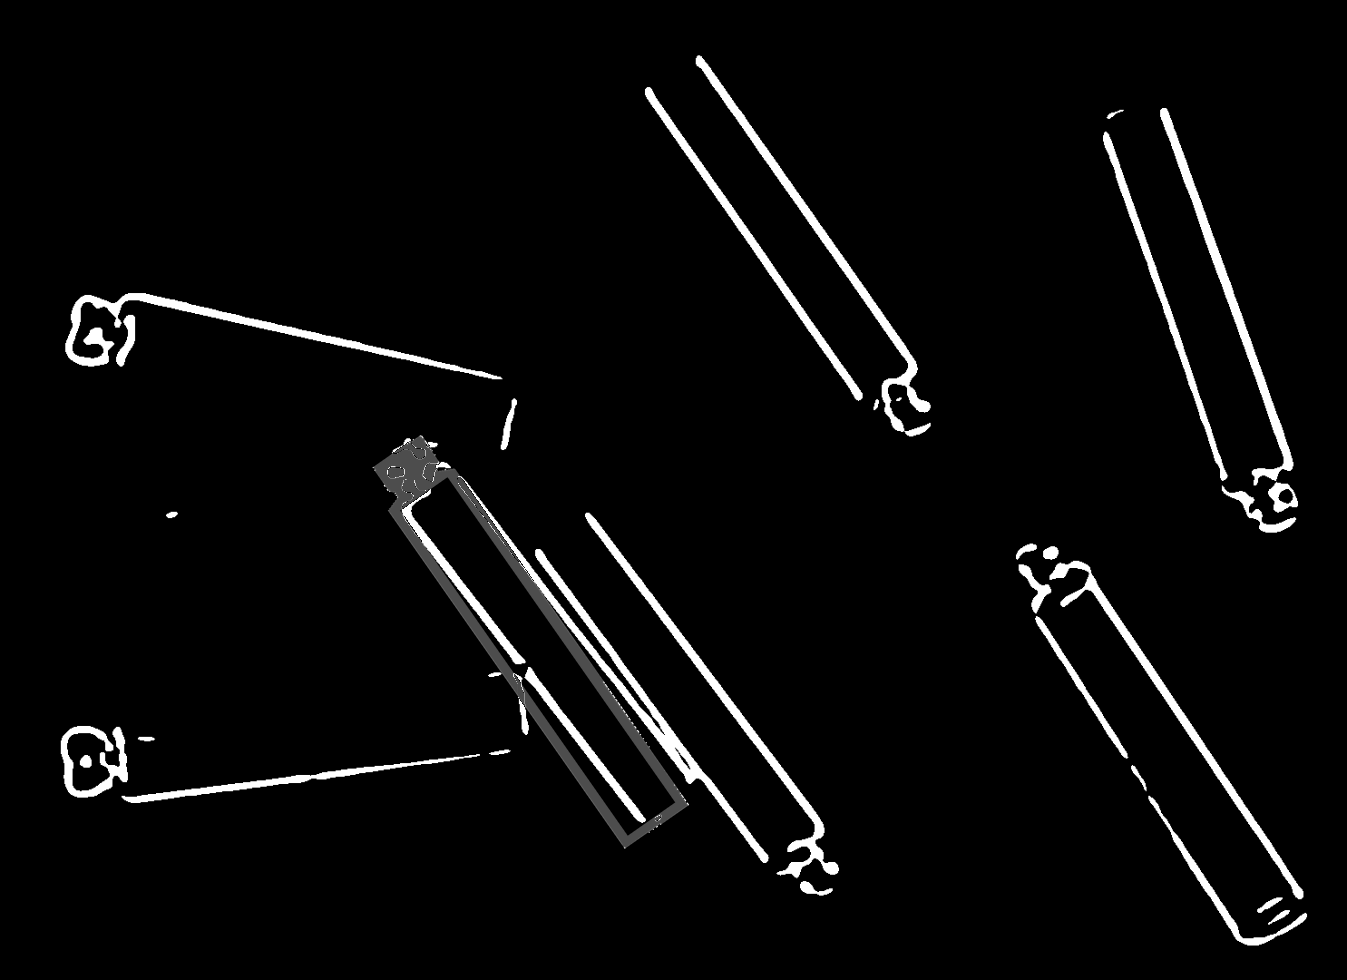
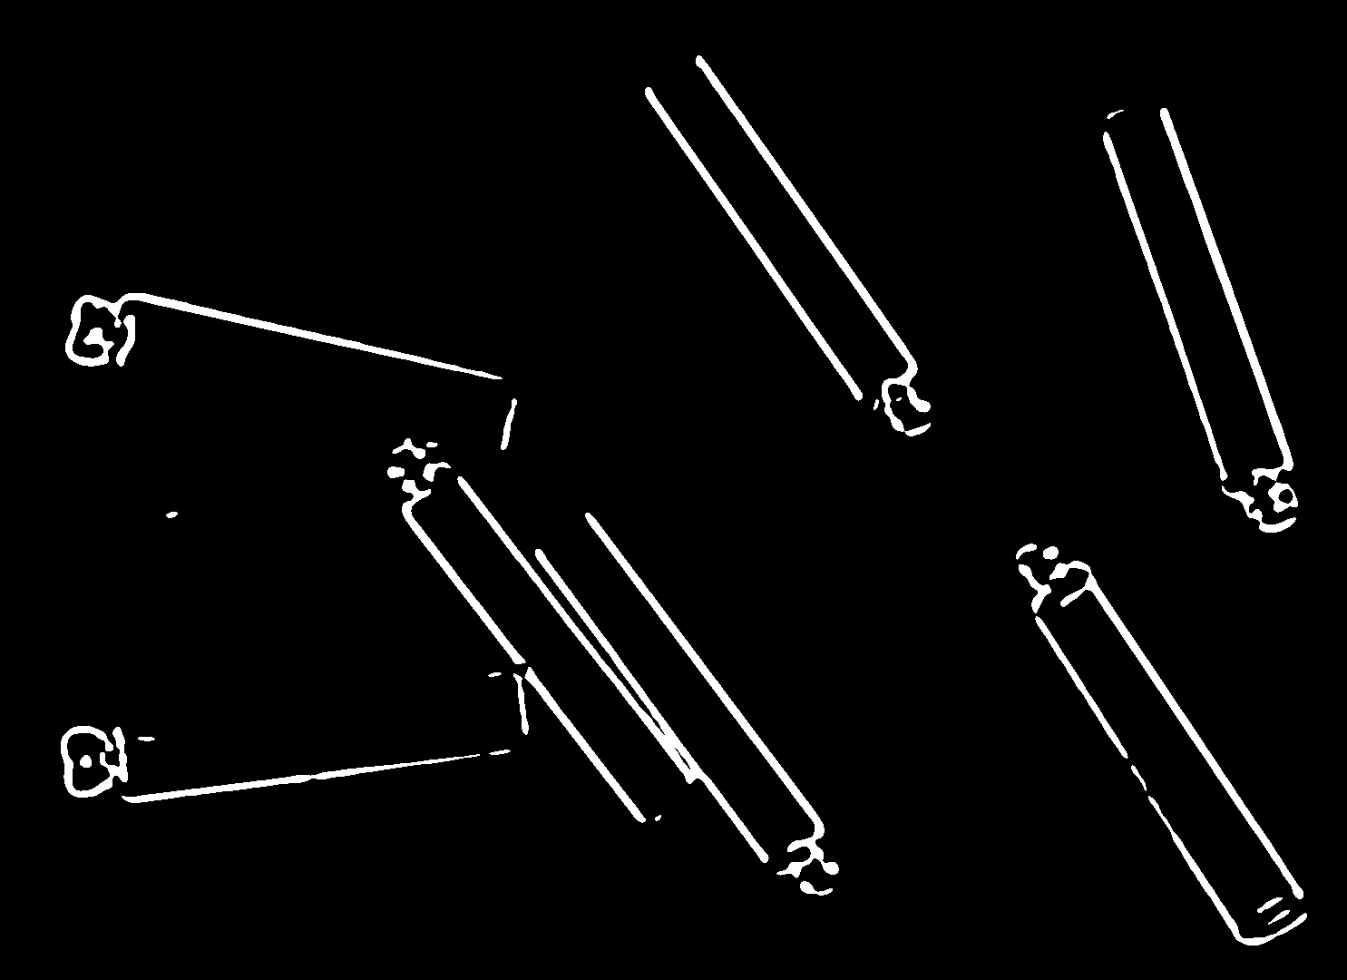
Added part of the hough information. Still needs fixing

diff --git a/GlassSegmentV1/GlassSegmentV1.py b/GlassSegmentV1/GlassSegmentV1.py
@@ -29,7 +29,7 @@ def rotate_image(image, angle):
     result = cv2.warpAffine(image, rot_mat, image.shape[1::-1], flags=cv2.INTER_CUBIC)
     return result
 
-# ! A (likely) ineffective way to convert image to binary
+# ! An (likely) ineffective way to convert image to binary
 def cvt_to_bin(image):
     image_bin = np.zeros(image.shape,dtype=bool)
     for y in range(image.shape[0]):
@@ -38,23 +38,45 @@ def cvt_to_bin(image):
                 image_bin[y,x] = True
     return image_bin
 
-def templatematch(img, template, angle_inc = 5, h_steps = 25, w_steps = 40):
-    template_rot = template
-    matches = np.empty([int(360/angle_inc), img.shape[0] - template_rot.shape[1] + 1, img.shape[1] - template_rot.shape[1] + 1])
-    #rotations = np.empty([])
+def templatematch(img, template, houghLocation, angle_inc = 1, h_steps = 6, w_steps = 6):
+    # * line-pair = |slope1 = a rad | x1start | y1start | x1end | y1end | slope2 = b rad | x2start | y2start | x2end | y2end
+    
+    # * Create a bounding-box for the potential glass
+    pointsx = np.array([houghLocation[1], houghLocation[3], houghLocation[6], houghLocation[8]])
+    pointsy = np.array([houghLocation[2], houghLocation[4], houghLocation[7], houghLocation[9]])
+    slopes = np.array([math.degrees(houghLocation[0]), math.degrees(houghLocation[5])])
+    
+    # * Box is defined as [start x, start y, end x, end y] and is used to define search area
+    boundingBox = np.array([np.amin(pointsx), np.amin(pointsy), np.amax(pointsx), np.amax(pointsy)])
+    
+    # Convert to positive slope angle
+    for cnt in range(slopes.shape[0]):
+        if np.sign(slopes[cnt]) == -1:
+            slopes[cnt] += 360
+            
+    template_rot = imutils.rotate_bound(template, np.average(slopes))
+    matches = np.empty([int(11/angle_inc), img.shape[0] - template_rot.shape[1] + 10, img.shape[1] - template_rot.shape[1] + 10])
+    
+
     # ? Perhaps scaling down the image significantly would 
     # ? increase performance. But at what cost?
 
     # Do & operation in increments, that is moving the template image a few pixels right/down
     # for each iteration and store most pixel hits
-    for angle in np.arange(0, 360, angle_inc):
-        for h in np.arange(0, img.shape[0] - template_rot.shape[0], int(img.shape[0] / h_steps)):
-            for w in np.arange(0, img.shape[1] - template_rot.shape[1], int(img.shape[1] / w_steps)):
-                match_array = np.logical_and(img[h : h + template_rot.shape[0] : 1, w : w + template_rot.shape[1] : 1], template_rot)
-                cv2.imshow(img[h : h + template_rot.shape[0] : 1, w : ])
+    #for updown in range(1,2): # 1 for up, 2 for down
+        #for h in np.arange(int(np.amin(pointsy)), int(np.amax(pointsy)), int((np.amax(pointsy) - np.amax(pointsy) /h_steps))):
+    for h in np.arange(int(np.amin(pointsy)), int(np.amax(pointsy)), 10):
+        #for w in np.arange(int(np.amin(pointsx)), int(np.amax(pointsx)), int((np.amax(pointsx) - np.amax(pointsx) /w_steps))):
+        for w in np.arange(int(np.amin(pointsx)), int(np.amax(pointsx)), 10):
+            for angle in np.arange(angle_inc, 11, angle_inc):
+                match_array = np.logical_and(img[h : h + template_rot.shape[0], w : w + template_rot.shape[1]], template_rot)
+                rotatingim = np.copy(img)
+                rotatingim[h : h + template_rot.shape[0], w : w+template_rot.shape[1]] = template_rot
+                cv2.imshow('Rotating progress', rotatingim)
+                cv2.waitKey(0)
                 matches[int(angle/angle_inc), h, w] = np.count_nonzero(match_array)
-                
-        template_rot = imutils.rotate_bound(template, angle)
+                template_rot = imutils.rotate_bound(template, angle)
+
 
     max_idx = np.where(matches == np.amax(matches))
     max_h = np.amax(max_idx[1])
@@ -63,7 +85,7 @@ def templatematch(img, template, angle_inc = 5, h_steps = 25, w_steps = 40):
     detection = imutils.rotate_bound(overlay, np.amax(max_idx[0]) * angle_inc)
     final = img
     
-    final[max_h:max_h + detection.shape[0]:1, max_w:max_w+detection.shape[1]:1] += detection
+    #final[max_h:max_h + detection.shape[0]:1, max_w:max_w+detection.shape[1]:1] += detection
     cv2.imwrite('IMG0005_Detection.png', final)
     return final
 
@@ -77,7 +99,9 @@ template = cv2.imread('VialOutlineHollow.png', 0)
 
 # * Rotating template in increments
 # * and match with image patch
-final = templatematch(img, template, angle_inc = 5, w_steps = 40, h_steps = 25)
+
+houghLocation = np.array([2.1, 697, 54, 915, 365, 2.1, 648, 87, 861, 396])
+final = templatematch(img, template, houghLocation)
 
 # TODO Prepare to function with line coordinates to narrow down position
 # TODO Function with Mathias' program which sends:
@@ -85,8 +109,5 @@ final = templatematch(img, template, angle_inc = 5, w_steps = 40, h_steps = 25)
 # TODO Search in the point-wise vicinity, search within , e.g +- 10 deg, turn 180 deg, search again within +-10 deg, use best fit
 cv2.imshow('bla1', img)
 cv2.imshow('bla', final)
-
-#cv2.imshow('Binary', img)
-#cv2.imshow('Contour image', edges_lownoise)
 cv2.waitKey(0)
 cv2.destroyAllWindows()
